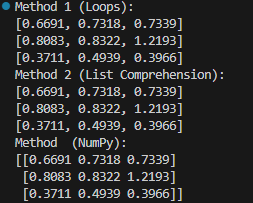
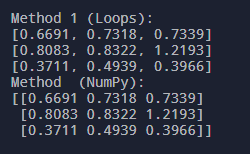
Final changes to early Jupyter and python training segment

diff --git a/README.md b/README.md
@@ -271,9 +271,8 @@ You can use "print" and a for-loop to iterate through all the rows of the matrix
 print by row.
 
 ```Python
-    print(currentRow) 
-    #currentRow can be a variable that stores a row in a matrix. Or, you can do it
-    #element by element. Get creative!
+    for row in result:
+    print(row)
 ```
 
 The other, and most effiecient (and easiest to type) method is using our NumPy package that we imported before.
@@ -291,12 +290,13 @@ For instance, Numpy arrays can be multiplied by simply using the @ operator, ins
 of manually writing out a multiplication algorithm.
 
 2. Multiply both matrices using the @ operator, and store them in a new variable of your choice.
+Then, print out the result.
 
 ```Python
 array1@array2 #It should look something like this. You need to figure out what's missing!
 ```
 
-That should make three methods of matrix multiplication. It's time to see if they worked!
+That should make two methods of matrix multiplication. It's time to see if they worked!
 
 Save your file with ctrl+s, and name your file ex1.py.
 
@@ -324,7 +324,8 @@ That's a quick introduction to the basics of post-flight analysis: A lot of math
 The three methods of matrix multiplication done above are not only different in the way they're typed, but also in the time it takes
 for python to compute the output. To see this, download an adjusted python script here, run it in your terminal, and read the output. 
 Use what you learned from the training to figure out how!
--Tyler: need to put download link for ex1_speed_comp.py here
+
+[Download...](./examples/ex1_speed_comp.py)
 
 Note the difference in speed. What do you see? Which method was the fastest, and why do you think so?
 
@@ -388,10 +389,9 @@ Or, you can reference Numpy's documentation for a better explanation. https://nu
 5. Now that you understand how to make an array with linspace, we're going to take it a step further. Make a new cell.
 
 5. a. First, in this new cell, make another array with linspace, and use a for-loop instead of three arguments. In this array, store the number 5 five hundred times. 
-A for-loop within a linspace routine call might look something like this; remember to modify as needed:
 
 ```Python
-array = np.linspace([for i in range (200)]) #-TFA : need to fix
+array = np.array([5 for _ in range(500)]) 
 ```
 5. b. Now, plot the new array you just made against the first array you made using matplotlibs. The command might look something like this:
 
